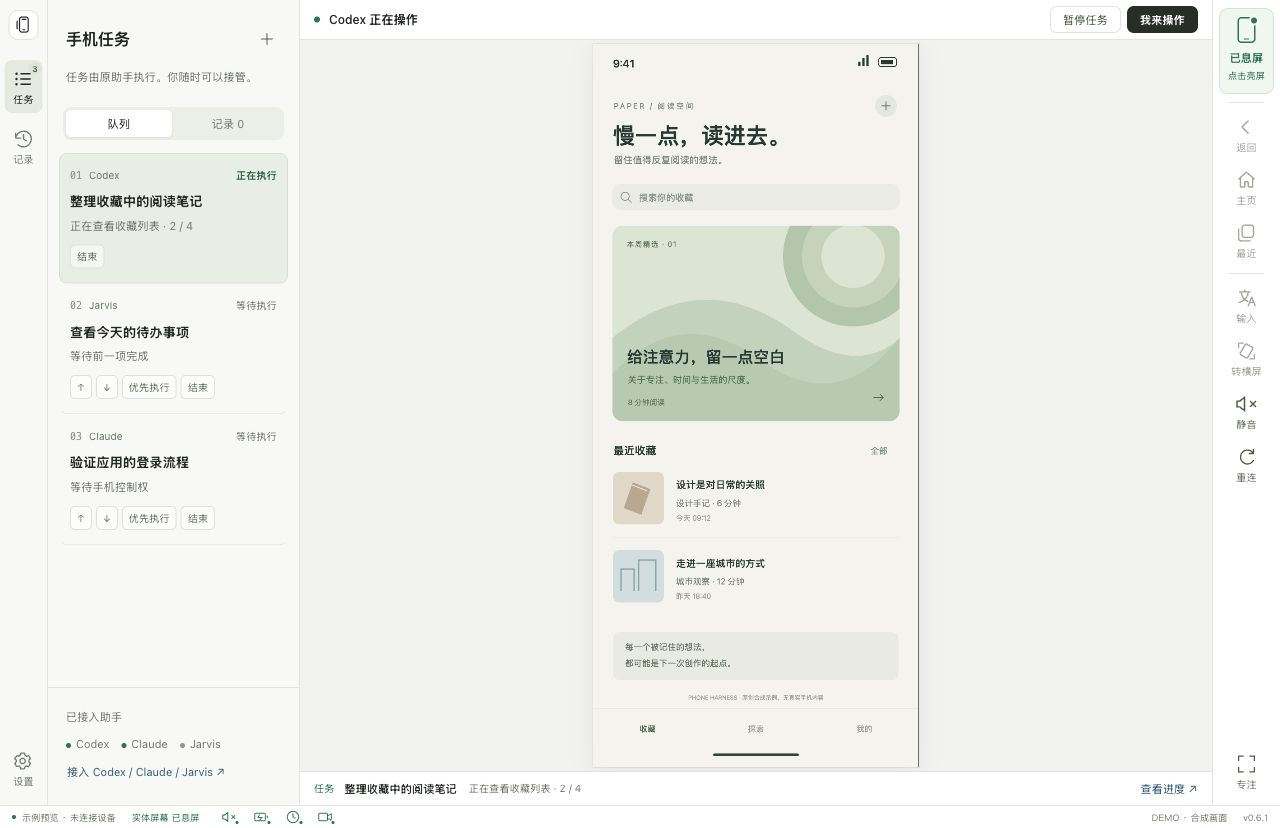
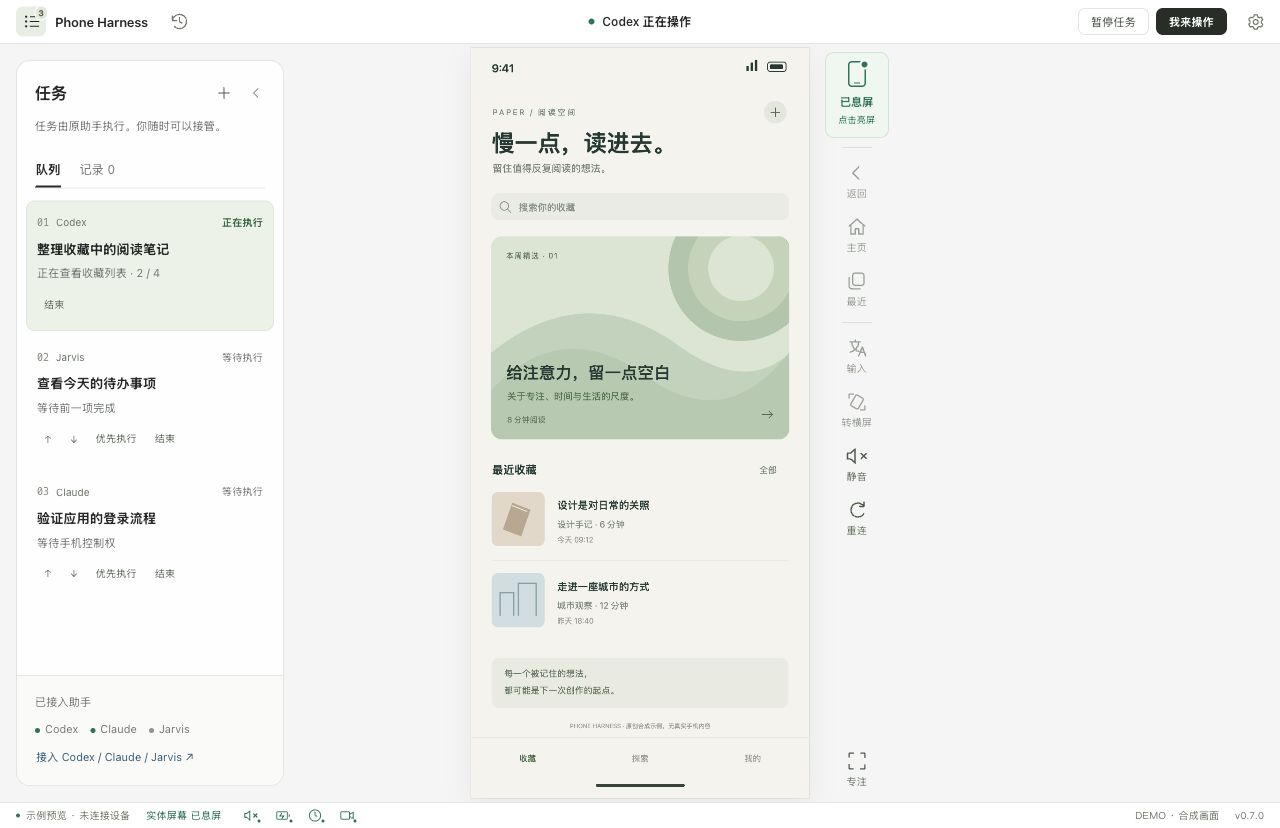
Center the phone independently of task and tool panels

diff --git a/src/phone_harness/web/style.css b/src/phone_harness/web/style.css
@@ -1,8 +1,8 @@
-/* Phone Harness · Light workspace. Original UI; no third-party component source. */
+/* Phone Harness · Centered workspace. Original UI; no third-party component source. */
 :root {
  color-scheme:light;
- --canvas:#f2f3f1; --chrome:#fff; --panel:#f8f9f7;
- --line:#e2e5df; --ink:#242824; --muted:#72776f;
+ --canvas:#f4f5f4; --chrome:#fff; --panel:#f8f9f8;
+ --line:#e3e6e2; --ink:#252825; --muted:#747974;
  --accent:#385c79; --primary:#282d28; --amber:#936218; --green:#31735a;
  --hover:#e9ece6; --radius:10px;
  font:13px -apple-system,BlinkMacSystemFont,'Segoe UI',sans-serif;
@@ -23,31 +23,36 @@ button.subtle:hover{background:var(--panel);border-color:#c9cec5}
 button.icon{height:30px;width:30px;font-size:22px;color:var(--muted);border-radius:50%}
 .ui-icon{width:21px;height:21px;display:block;fill:none;stroke:currentColor;stroke-width:1.55;stroke-linecap:round;stroke-linejoin:round}
 .spacer{flex:1}
-main{display:flex;flex:1;min-height:0}
-.left-rail{width:48px;flex:none;display:flex;flex-direction:column;align-items:center;gap:7px;padding:10px 4px;background:var(--panel);border-right:1px solid var(--line)}
-.rail-brand{display:grid;place-items:center;width:30px;height:30px;color:var(--ink);border:1px solid #dfe3da;border-radius:9px;background:#fff;margin:0 0 13px}
-.rail-brand .ui-icon{width:19px;height:19px}
-.rail-button{width:38px;min-height:51px;position:relative;padding:5px 0;color:#777e72;border-radius:8px}
-.rail-button>span{display:flex;justify-content:center;height:26px;align-items:center}
-.rail-button small{display:block;font-size:10px;line-height:15px}
-.rail-button[aria-expanded=true]{color:var(--ink);background:#e5e9e0}
-.rail-button b{position:absolute;right:0;top:1px;background:#dde4d7;color:#485241;font-size:8px;min-width:13px;border-radius:7px;padding:1px 3px;line-height:11px}
-.tasks{width:252px;flex-shrink:0;background:var(--panel);border-right:1px solid var(--line);display:flex;flex-direction:column}
+/* The header and video are centered against the whole window, independently of drawers. */
+.app-header{height:44px;flex:none;display:grid;grid-template-columns:1fr auto 1fr;align-items:center;gap:16px;padding:0 16px;background:var(--chrome);border-bottom:1px solid var(--line);z-index:6}
+.header-start{display:flex;gap:9px;align-items:center;min-width:0}
+.app-name{font-size:13px;letter-spacing:-.2px;font-weight:600;white-space:nowrap;margin-right:6px}
+.header-icon{height:30px;width:30px;flex:none;display:grid;place-items:center;position:relative;color:#70796a}
+.header-icon .ui-icon{width:19px;height:19px}
+.header-icon[aria-expanded=true]{background:#e9eee5;color:var(--ink)}
+.header-icon b{position:absolute;right:-3px;top:-2px;min-width:13px;padding:1px 3px;border:1px solid #fff;border-radius:7px;background:#e1e8da;color:#526148;font-size:8px;font-weight:550;line-height:11px}
+.pane-close{display:grid;place-items:center;width:27px;height:30px;color:#7b8275}
+.pane-close .ui-icon{width:17px;height:17px}
 .tasks.collapsed{display:none}
-.pane-head{padding:24px 18px 13px;display:flex;justify-content:space-between;align-items:center}
+.drawer-scrim{position:absolute;z-index:4;inset:0;background:#1f2a202b;border:0;border-radius:0;cursor:default}
+.drawer-scrim:hover,.drawer-scrim:active:not(:disabled){background:#1f2a202b}
+.task-overlay .tasks{background:#fff;box-shadow:10px 0 36px #24301d20}
+main.phone-stage{position:relative;flex:1;min-height:0;background:var(--canvas);isolation:isolate}
+.tasks{position:absolute;z-index:5;left:16px;top:calc(16px + var(--activity-inset,0px));bottom:16px;width:268px;display:flex;flex-direction:column;background:#ffffffeb;border:1px solid var(--line);border-radius:14px;overflow:hidden}
+.pane-head{padding:17px 15px 8px 18px;display:flex;align-items:center;gap:3px}.pane-head>div{flex:1}
 .eyebrow{font-size:11px;letter-spacing:0;color:var(--muted)}
 h1{font-size:16px;margin:0;font-weight:600;letter-spacing:-.3px}
 .add{display:grid;place-items:center;height:30px;width:30px;color:#535b4e;border-radius:7px}
 .add .ui-icon{width:18px;height:18px}
-.queue-hint{padding:0 18px 20px;color:var(--muted);font-size:11px;line-height:1.8}
-.task-tabs{display:flex;gap:3px;padding:3px;margin:0 15px 13px;background:#eceee8;border-radius:8px}
-.task-tabs button{flex:1;padding:5px 2px;color:var(--muted);font-size:11px;border-radius:5px}
-.task-tabs button.selected{color:var(--ink);background:#fff;box-shadow:0 1px 3px #26311d12}
-.task-list{flex:1;overflow:auto;padding:0 11px 14px;scrollbar-width:thin}
+.queue-hint{padding:0 18px 16px;color:var(--muted);font-size:11px;line-height:1.8}
+.task-tabs{display:flex;gap:17px;margin:0 18px 8px;border-bottom:1px solid var(--line)}
+.task-tabs button{padding:8px 0;color:var(--muted);font-size:12px;border-radius:0;border-bottom:2px solid transparent}
+.task-tabs button.selected{color:var(--ink);border-bottom-color:var(--ink);font-weight:550}
+.task-list{flex:1;min-height:0;overflow:auto;padding:4px 9px 12px;scrollbar-width:thin}
 .queue-empty{margin:26px 10px;color:var(--muted);line-height:1.9;font-size:12px}
-.task{border:1px solid transparent;border-bottom-color:#e8ebe4;padding:14px 10px;cursor:pointer;border-radius:8px;transition:background .14s}
+.task{border:1px solid transparent;padding:14px 10px;cursor:pointer;border-radius:9px;transition:background .14s;margin-bottom:4px}
 .task:hover{background:#eef0eb}
-.task.running{border-color:#dae1d4;background:#e9eee4}
+.task.running{border-color:#dfe6dc;background:#edf2e9}
 .task-top{display:flex;align-items:center;gap:7px;margin-bottom:8px}
 .task-index{font:10px 'SFMono-Regular',monospace;color:#868c80}
 .task-agent{font-size:10px;color:#687360}
@@ -56,24 +61,23 @@ h1{font-size:16px;margin:0;font-weight:600;letter-spacing:-.3px}
 .task-title{font-size:13px;line-height:1.7;font-weight:550;overflow-wrap:anywhere}
 .task-action{font-size:11px;line-height:1.6;color:var(--muted);margin-top:5px;display:-webkit-box;-webkit-line-clamp:2;-webkit-box-orient:vertical;overflow:hidden}
 .task-controls{display:flex;flex-wrap:wrap;gap:4px;margin-top:10px}
-.task-controls button{padding:4px 6px;background:#ffffff80;border-color:#dde3d7;font-size:10px;color:#697360;border-radius:5px}
-.task-controls button:hover{color:var(--ink);background:#fff;border-color:#bdc7b3}
+.task-controls button{padding:4px 6px;font-size:10px;color:#626c5d;border-radius:5px}
+.task-controls button:hover{color:var(--ink);background:#e3e9de}
 .task.done .task-title,.task.cancelled .task-title{color:var(--muted)}
-.agent-foot{border-top:1px solid var(--line);padding:16px 18px 15px;line-height:1.8}
+.agent-foot{border-top:1px solid var(--line);padding:13px 18px 10px;line-height:1.8;background:#fafbf9}
 .agent-foot #agents{font-size:11px;margin-top:7px;color:var(--muted)}
 .agent-pill{display:inline-block;margin-right:12px}
 .agent-pill i{display:inline-block;width:5px;height:5px;background:#91958d;border-radius:50%;margin-right:5px}
 .agent-pill.online i{background:var(--green)}
 .text-button{font-size:11px;color:var(--accent);padding:7px 0;text-align:left}
-.workspace{flex:1;min-width:0;display:flex;flex-direction:column}
-.ownership{height:40px;min-height:40px;display:flex;flex:none;align-items:center;gap:8px;justify-content:space-between;padding:4px 14px;background:var(--chrome);border-bottom:1px solid var(--line)}
-.owner-info{display:flex;gap:9px;align-items:center;min-width:0;overflow:hidden}
+.workspace{position:absolute;inset:0;display:flex;flex-direction:column;min-width:0}
+.owner-info{display:flex;gap:8px;align-items:center;min-width:0;max-width:300px;overflow:hidden}
 .owner-dot{height:6px;width:6px;flex:none;background:#8e9587;border-radius:50%}
 .owner-dot.human{background:var(--amber)}
 .owner-dot.agent{background:var(--green)}
 .owner-info strong{font-weight:550;font-size:12px;display:block;white-space:nowrap;overflow:hidden;text-overflow:ellipsis}
 .owner-info span:not(.owner-dot){display:none}
-.owner-actions{display:flex;gap:6px;flex:none;margin-left:auto}
+.owner-actions{display:flex;gap:7px;align-items:center;justify-content:flex-end;min-width:0}
 .owner-actions button{padding:5px 12px;font-size:11px;border-radius:7px}
 .viewport{flex:1;min-height:0;position:relative;display:flex;align-items:center;justify-content:center;padding:4px;overflow:hidden;background:var(--canvas)}
 #screen{display:block;flex:none;max-width:100%;max-height:100%;object-fit:fill;touch-action:none;background:#000;box-shadow:0 0 0 1px #24282412,0 6px 28px #24282412;cursor:default}
@@ -86,18 +90,13 @@ h1{font-size:16px;margin:0;font-weight:600;letter-spacing:-.3px}
 .empty-screen p{font-size:12px;margin:8px 0}
 .empty-screen small{font-size:11px;color:var(--muted)}
 .stage-label{position:absolute;bottom:20px;background:#fffffff2;border:1px solid var(--line);border-radius:18px;padding:8px 14px;font-size:11px;color:#66705c;box-shadow:0 3px 12px #26331f0a}
-.current-task{min-height:34px;height:34px;display:flex;gap:10px;align-items:center;padding:4px 14px;border-top:1px solid var(--line);flex:none;background:var(--chrome)}
-.current-task>div{min-width:0;flex:1;display:flex;align-items:center;gap:12px}
-.current-task strong{display:block;font-size:11px;font-weight:500;max-width:50%;overflow:hidden;text-overflow:ellipsis;white-space:nowrap}
-.current-task div span{display:block;font-size:10px;color:var(--muted);overflow:hidden;text-overflow:ellipsis;white-space:nowrap}
-.current-task .eyebrow{font-size:10px;color:var(--green)}
-.toolbar{width:68px;flex:none;display:flex;flex-direction:column;align-items:stretch;align-self:stretch;padding:8px 6px;gap:3px;overflow-y:auto;scrollbar-width:none;border-left:1px solid var(--line);background:var(--chrome)}
+.toolbar{position:absolute;z-index:2;left:calc(50% + 180px);top:calc(8px + var(--activity-inset,0px));bottom:8px;width:64px;display:flex;flex-direction:column;align-items:stretch;padding:0;gap:4px;overflow-y:auto;scrollbar-width:none}
 .toolbar button{min-height:46px;flex-shrink:0;padding:4px 0;color:#50594a;border-radius:8px}
 .toolbar button>span{display:flex;height:24px;align-items:center;justify-content:center}
 .toolbar small{display:block;font-size:10px;line-height:16px;color:#727b6b}
 .toolbar button:disabled small{color:inherit}
-.toolbar button:hover:not(:disabled),.toolbar button[aria-pressed=true]{background:#edf0e8;color:var(--ink)}
-.toolbar .divider{height:1px;background:var(--line);margin:4px 10px;flex:none}
+.toolbar button:not(.panel-power):hover:not(:disabled),.toolbar #focus[aria-pressed=true]{background:#fff;color:var(--ink);border-color:#dfe4da}
+.toolbar .divider{height:1px;background:#dce1d7;margin:4px 17px;flex:none}
 .toolbar .panel-power{min-height:86px;border:1px solid #e2e6dc;border-radius:9px;display:flex;align-items:center;flex-direction:column;gap:3px;margin-bottom:1px;padding:8px 2px;color:var(--muted);background:var(--panel)}
 .panel-power strong{font-size:11px;font-weight:600;line-height:18px}
 .toolbar .panel-power small{font-size:9px;color:inherit;line-height:12px}
@@ -108,7 +107,7 @@ h1{font-size:16px;margin:0;font-weight:600;letter-spacing:-.3px}
 .toolbar .panel-power.on .panel-glyph{background:#f9e1aa}
 .toolbar .panel-power.off{color:var(--green);border-color:#d4e5d8;background:#f0f7f0}
 .toolbar .panel-power.pending{border-style:dashed}
-.statusbar{height:23px;flex:none;display:flex;align-items:center;gap:16px;padding:0 12px;background:var(--chrome);border-top:1px solid var(--line);font:9px -apple-system,sans-serif;color:#737b6d;white-space:nowrap}
+.statusbar{height:26px;flex:none;display:flex;align-items:center;gap:16px;padding:0 16px;background:var(--chrome);border-top:1px solid var(--line);font:10px -apple-system,sans-serif;color:#737b6d;white-space:nowrap}
 .statusbar>span{display:flex;align-items:center;gap:6px}
 .statusbar i{height:4px;width:4px;border-radius:50%;background:#93998c}
 .statusbar i.online{background:var(--green)}
@@ -118,7 +117,7 @@ h1{font-size:16px;margin:0;font-weight:600;letter-spacing:-.3px}
 .health-icon{position:relative;width:27px;height:22px;display:flex;align-items:center;justify-content:center;padding:2px;border-radius:5px}
 .health-icon i{position:absolute;width:3px;height:3px;right:3px;bottom:3px;background:currentColor}
 .good{color:var(--green)}.warning{color:var(--amber)}.alert{color:#ad4a3c}.unknown{color:var(--muted)}
-.activity-banner{min-height:26px;flex:none;text-align:left;padding:4px 14px;background:#fff2ed;color:#9b4734;border-radius:0;border-bottom:1px solid #edd4c9;font-size:11px;line-height:18px;white-space:nowrap;overflow:hidden;text-overflow:ellipsis}
+.activity-banner{min-height:26px;flex:none;text-align:center;padding:4px 14px;background:#fff2ed;color:#9b4734;border-radius:0;border-bottom:1px solid #edd4c9;font-size:11px;line-height:18px;white-space:nowrap;overflow:hidden;text-overflow:ellipsis}
 .activity-banner:hover{background:#fce8de}
 #toast{position:fixed;bottom:45px;left:50%;transform:translateX(-50%);background:#fffffff5;color:var(--ink);padding:12px 20px;border:1px solid var(--line);border-radius:12px;max-width:min(600px,90vw);font-size:12px;line-height:1.6;z-index:10;box-shadow:0 8px 32px #26331f18}
 dialog{border:1px solid #dde2d7;border-radius:16px;background:var(--chrome);color:var(--ink);padding:26px;width:min(520px,92vw);max-height:85vh;box-shadow:0 24px 80px #26331f28,0 2px 12px #26331f0a;scrollbar-width:thin}
@@ -157,9 +156,10 @@ input:focus,textarea:focus,select:focus{outline:2px solid #7893a9;outline-offset
 .action-caption{position:absolute;top:12px;left:50%;transform:translateX(-50%);z-index:3;pointer-events:none;padding:9px 15px;border:1px solid #c8d3e3;border-radius:24px;background:#fffffff2;color:#405d83;box-shadow:0 4px 20px #26331f18;font:500 12px -apple-system,BlinkMacSystemFont,'Segoe UI',sans-serif;max-width:calc(100% - 24px);white-space:nowrap;overflow:hidden;text-overflow:ellipsis}
 .action-caption.human{border-color:#e7d4ad;color:#8f601a}.action-caption.uncertain{border-color:#dcb3a7;color:#a04436}
 [hidden]{display:none!important}
-body.focus .tasks,body.focus .current-task{display:none}
-@media(max-width:700px){.tasks{position:absolute;left:48px;top:0;bottom:23px;z-index:5;width:252px;box-shadow:12px 0 35px #26331f18}.ownership{padding:4px 10px}.statusbar{gap:10px}.current-task{padding:4px 10px}}
-@media(max-width:600px){.left-rail{width:44px;padding-inline:3px}.tasks{left:44px}.toolbar{width:56px;padding:5px 2px}.ownership{padding:4px 8px}.owner-info{max-width:50%}.owner-actions button{padding:5px 8px;font-size:10px}.owner-info strong{font-size:10px}.statusbar{font-size:8px;gap:6px;padding:0 8px}.health-icons{gap:1px}#videoStatus,.statusbar>span:last-child{display:none}.current-task div span{display:none}.current-task strong{max-width:100%}.current-task .eyebrow{display:none}.health-row{grid-template-columns:100px 1fr;gap:10px}#panelStatus{max-width:90px;overflow:hidden}.empty-screen p{max-width:230px;margin:8px auto}}
-@media(max-height:650px){.toolbar{gap:1px}.toolbar button{min-height:38px;padding:2px 0}.toolbar button>span{height:22px}.toolbar .panel-power{min-height:74px;padding:6px 2px}.toolbar .panel-glyph{height:23px}.toolbar .divider{margin:2px 8px}.toolbar small{line-height:13px}}
 @media(prefers-reduced-motion:reduce){*,*:before,*:after{transition:none!important;animation:none!important}dialog::backdrop{backdrop-filter:none}}
-@media(prefers-contrast:more){:root{--line:#929c88;--muted:#4c5842}.toolbar,.tasks,.ownership{background:#fff}button{border-color:#8b9780}}
+@media(prefers-contrast:more){:root{--line:#929c88;--muted:#4c5842}.tasks,.app-header{background:#fff}button{border-color:#8b9780}}
+
+body.focus .tasks,body.focus .statusbar,body.focus .drawer-scrim{display:none}
+@media(max-width:700px){.app-header{gap:8px;padding:0 10px}.app-name{display:none}.tasks{left:10px;top:calc(10px + var(--activity-inset,0px));bottom:10px}.owner-info{max-width:200px}.owner-actions button{padding:5px 9px}.statusbar{gap:9px;padding:0 10px}}
+@media(max-width:600px){.app-header{grid-template-columns:30px minmax(0,1fr) auto;gap:8px}#railHistory{display:none}.owner-info strong{font-size:11px}.owner-actions{gap:4px}.owner-actions button{font-size:10px;padding:5px 7px}.owner-actions .header-icon{padding:0;width:26px}.toolbar{width:44px;top:calc(6px + var(--activity-inset,0px));bottom:6px}.toolbar small{font-size:9px}.toolbar .panel-power{min-height:80px;border-radius:8px}.toolbar .panel-power strong{font-size:10px}.toolbar .panel-power small{font-size:8px}#pause{font-size:0;width:26px;padding:0;height:27px}#pause:before{content:'Ⅱ';font-size:15px}.statusbar{font-size:8px;gap:6px;padding:0 8px}.health-icons{gap:1px}#videoStatus,.statusbar>span:last-child{display:none}.health-row{grid-template-columns:100px 1fr;gap:10px}#panelStatus{max-width:90px;overflow:hidden}.empty-screen p{max-width:230px;margin:8px auto}}
+@media(max-height:650px){.toolbar{gap:1px}.toolbar button{min-height:37px;padding:2px 0}.toolbar button>span{height:21px}.toolbar .panel-power{min-height:72px;padding:5px 2px}.toolbar .panel-glyph{height:22px}.toolbar .divider{margin:2px 16px}.toolbar small{line-height:13px}}

diff --git a/src/phone_harness/web/index.html b/src/phone_harness/web/index.html
@@ -1,32 +1,29 @@
 <!doctype html>
 <html lang="zh-CN"><head><meta charset="utf-8"><meta name="viewport" content="width=device-width,initial-scale=1"><meta name="color-scheme" content="light"><title>Phone Harness · 手机控制台</title><link rel="stylesheet" href="/static/style.css"></head>
 <body>
-<main>
- <nav class="left-rail" aria-label="控制台工具">
-  <span class="rail-brand" title="Phone Harness" aria-label="Phone Harness"><svg class="ui-icon" viewBox="0 0 24 24" aria-hidden="true"><rect x="7" y="2" width="11" height="19" rx="3"/><path d="M10 5h5M11 18h3M4 7v10"/></svg></span>
-  <button id="toggleTasks" class="rail-button" title="展开任务队列" aria-label="展开任务队列" aria-expanded="false"><span><svg class="ui-icon" viewBox="0 0 24 24" aria-hidden="true"><path d="M9 6h11M9 12h11M9 18h11"/><circle cx="4" cy="6" r=".6"/><circle cx="4" cy="12" r=".6"/><circle cx="4" cy="18" r=".6"/></svg></span><small>任务</small><b id="queueCount" hidden></b></button>
-  <button id="railHistory" class="rail-button" title="查看任务记录" aria-label="查看任务记录"><span><svg class="ui-icon" viewBox="0 0 24 24" aria-hidden="true"><path d="M3 11a9 9 0 1 1 2.6 7.4M3 5v6h6M12 7v5l3 2"/></svg></span><small>记录</small></button>
-  <div class="spacer"></div>
-  <button id="settingsOpen" class="rail-button" title="会话设置" aria-label="会话设置"><span><svg class="ui-icon" viewBox="0 0 24 24" aria-hidden="true"><path d="m9 3-.6 2.4-2 1.2-2.3-.7-2 3.4 1.7 1.7v2L2.1 15l2 3.4 2.3-.7 2 1.2L9 21h4l.6-2.1 2-1.2 2.3.7 2-3.4-1.7-2v-2l1.7-1.7-2-3.4-2.3.7-2-1.2L13 3Z"/><circle cx="11" cy="12" r="3"/></svg></span><small>设置</small></button>
- </nav>
- <aside id="taskPane" class="tasks collapsed">
-  <div class="pane-head"><div><h1>手机任务</h1></div><button id="addOpen" class="add" title="添加手机任务" aria-label="添加手机任务"><svg class="ui-icon" viewBox="0 0 24 24" aria-hidden="true"><path d="M12 5v14M5 12h14"/></svg></button></div>
+<header class="app-header">
+ <div class="header-start"><button id="toggleTasks" class="header-icon" title="展开任务队列" aria-label="展开任务队列" aria-expanded="false"><span><svg class="ui-icon" viewBox="0 0 24 24" aria-hidden="true"><path d="M9 6h11M9 12h11M9 18h11"/><circle cx="4" cy="6" r=".6"/><circle cx="4" cy="12" r=".6"/><circle cx="4" cy="18" r=".6"/></svg></span><b id="queueCount" hidden></b></button><span class="app-name">Phone Harness</span><button id="railHistory" class="header-icon" title="查看任务记录" aria-label="查看任务记录"><span><svg class="ui-icon" viewBox="0 0 24 24" aria-hidden="true"><path d="M3 11a9 9 0 1 1 2.6 7.4M3 5v6h6M12 7v5l3 2"/></svg></span></button></div>
+ <div class="owner-info"><span id="ownerDot" class="owner-dot"></span><div><strong id="ownerTitle">会话未开始</strong><span id="ownerDescription">连接 USB 手机，开始本地投屏</span></div></div>
+ <div class="owner-actions"><button id="pause" class="subtle" title="暂停全部手机任务">暂停任务</button><button id="takeover" class="primary">我来操作</button><button id="release" class="primary">交回助手</button><button id="connect" class="primary">连接手机</button><button id="settingsOpen" class="header-icon" title="会话设置" aria-label="会话设置"><span><svg class="ui-icon" viewBox="0 0 24 24" aria-hidden="true"><path d="m9 3-.6 2.4-2 1.2-2.3-.7-2 3.4 1.7 1.7v2L2.1 15l2 3.4 2.3-.7 2 1.2L9 21h4l.6-2.1 2-1.2 2.3.7 2-3.4-1.7-2v-2l1.7-1.7-2-3.4-2.3.7-2-1.2L13 3Z"/><circle cx="11" cy="12" r="3"/></svg></span></button></div>
+</header>
+<main id="phoneStage" class="phone-stage">
+<section class="workspace">
+  <button id="activityBanner" class="activity-banner" hidden aria-live="polite" title="查看设备使用详情"></button>
+  <div class="viewport" id="viewport">
+   <div id="emptyScreen" class="empty-screen"><div class="outline-phone"><span></span></div><h2>你的手机，在这里。</h2><p>USB 直连 · 实体屏幕可关闭 · 静音状态可核验</p><small>首次使用请解锁手机并允许 USB 调试。</small></div>
+   <canvas id="screen" width="720" height="1600" tabindex="0" aria-label="实时手机画面，可在取得控制权后点击和滑动" hidden></canvas>
+   <canvas id="actionLayer" aria-hidden="true"></canvas><div id="actionCaption" class="action-caption" role="status" aria-live="polite" hidden></div>
+   <div class="stage-label" id="stageLabel" hidden>正在连接视频…</div>
+  </div>
+ </section>
+<button id="drawerScrim" class="drawer-scrim" aria-label="关闭任务面板" hidden></button>
+<aside id="taskPane" class="tasks collapsed" aria-label="手机任务">
+  <div class="pane-head"><div><h1>任务</h1></div><button id="addOpen" class="add" title="添加手机任务" aria-label="添加手机任务"><svg class="ui-icon" viewBox="0 0 24 24" aria-hidden="true"><path d="M12 5v14M5 12h14"/></svg></button><button id="closeTasks" class="pane-close" aria-label="收起任务面板" title="收起任务面板"><svg class="ui-icon" viewBox="0 0 24 24" aria-hidden="true"><path d="m14 6-6 6 6 6"/></svg></button></div>
   <div class="queue-hint">任务由原助手执行。你随时可以接管。</div>
   <div class="task-tabs"><button id="queueTab" class="selected">队列</button><button id="historyTab">记录</button></div><div id="taskList" class="task-list"></div>
   <div class="agent-foot"><span class="eyebrow">已接入助手</span><div id="agents">尚无助手接入</div><button id="integrationOpen" class="text-button">接入 Codex / Claude / Jarvis ↗</button></div>
  </aside>
- <section class="workspace">
-  <div class="ownership"><div class="owner-info"><span id="ownerDot" class="owner-dot"></span><div><strong id="ownerTitle">会话未开始</strong><span id="ownerDescription">连接 USB 手机，开始本地投屏</span></div></div><div class="owner-actions"><button id="pause" class="subtle" title="暂停全部手机任务">暂停任务</button><button id="takeover" class="primary">我来操作</button><button id="release" class="primary">交回助手</button><button id="connect" class="primary">连接手机</button></div></div>
-  <button id="activityBanner" class="activity-banner" hidden aria-live="polite" title="查看设备使用详情"></button>
-  <div class="viewport" id="viewport">
-   <div id="emptyScreen" class="empty-screen"><div class="outline-phone"><span></span></div><h2>你的手机，在这里。</h2><p>USB 直连 · 实体屏幕可关闭 · 静音状态可核验</p><small>首次使用请解锁手机并允许 USB 调试。</small></div>
-   <canvas id="screen" tabindex="0" aria-label="实时手机画面，可在取得控制权后点击和滑动" hidden></canvas>
-   <canvas id="actionLayer" aria-hidden="true"></canvas><div id="actionCaption" class="action-caption" role="status" aria-live="polite" hidden></div>
-   <div class="stage-label" id="stageLabel" hidden>正在连接视频…</div>
-  </div>
-  <footer id="currentTask" class="current-task" hidden><span class="eyebrow">任务</span><div><strong id="currentTitle">没有正在执行的手机任务</strong><span id="currentAction">可手动操作，也可以交给已接入的助手。</span></div><button id="currentDetail" class="text-button" hidden>查看进度 ↗</button></footer>
- </section>
- <nav class="toolbar" aria-label="手机快捷工具">
+<nav id="phoneTools" class="toolbar" aria-label="手机快捷工具">
   <button id="panelPower" class="panel-power unknown" aria-label="实体屏幕待确认，点击息屏" title="读取手机实体面板状态"><span class="panel-glyph"><i></i></span><strong id="panelLabel">待确认</strong><small id="panelAction">实体屏幕</small></button>
   <div class="divider"></div>
   <button data-key="4" title="手机返回" aria-label="手机返回"><span><svg class="ui-icon" viewBox="0 0 24 24" aria-hidden="true"><path d="m14 5-7 7 7 7"/></svg></span><small>返回</small></button>
@@ -40,7 +37,7 @@
   <div class="spacer"></div><button id="focus" aria-pressed="false" title="切换专注视图" aria-label="切换专注视图"><span><svg class="ui-icon" viewBox="0 0 24 24" aria-hidden="true"><path d="M8 3H3v5M16 3h5v5M21 16v5h-5M3 16v5h5"/></svg></span><small>专注</small></button>
  </nav>
 </main>
-<div class="statusbar"><span><i id="usbDot"></i><span id="connection">USB 未连接</span></span><span id="panelStatus">实体屏幕 —</span><div class="health-icons"><button id="audioStatus" class="health-icon unknown" aria-label="静音详情" title="静音详情"><svg viewBox="0 0 24 24" width="15" height="15" fill="none" stroke="currentColor" stroke-width="1.6" aria-hidden="true"><path d="M10 5 5 9H2v6h3l5 4V5ZM16 9l6 6m0-6-6 6"/></svg><i></i></button><button id="batteryStatus" class="health-icon unknown" aria-label="充电与电池详情" title="充电与电池详情"><svg viewBox="0 0 24 24" width="15" height="15" fill="none" stroke="currentColor" stroke-width="1.6" aria-hidden="true"><rect x="2" y="6" width="17" height="12" rx="2"/><path d="M22 10v4M10 8l-3 5h6l-3 4"/></svg><i></i></button><button id="verifiedStatus" class="health-icon unknown" aria-label="最后核验时间" title="最后核验时间"><svg viewBox="0 0 24 24" width="15" height="15" fill="none" stroke="currentColor" stroke-width="1.6" aria-hidden="true"><circle cx="12" cy="12" r="9"/><path d="M12 6v6l4 2"/></svg><i></i></button><button id="privacyStatus" class="health-icon unknown" aria-label="摄像头与麦克风状态" title="摄像头与麦克风状态"><svg viewBox="0 0 24 24" width="15" height="15" fill="none" stroke="currentColor" stroke-width="1.6" aria-hidden="true"><rect x="2" y="6" width="14" height="12" rx="2"/><path d="m16 10 6-3v10l-6-3"/></svg><i></i></button></div><span class="spacer"></span><span id="videoStatus">本机视频流</span><span>v0.6.1</span></div>
+<div class="statusbar"><span><i id="usbDot"></i><span id="connection">USB 未连接</span></span><span id="panelStatus">实体屏幕 —</span><div class="health-icons"><button id="audioStatus" class="health-icon unknown" aria-label="静音详情" title="静音详情"><svg viewBox="0 0 24 24" width="15" height="15" fill="none" stroke="currentColor" stroke-width="1.6" aria-hidden="true"><path d="M10 5 5 9H2v6h3l5 4V5ZM16 9l6 6m0-6-6 6"/></svg><i></i></button><button id="batteryStatus" class="health-icon unknown" aria-label="充电与电池详情" title="充电与电池详情"><svg viewBox="0 0 24 24" width="15" height="15" fill="none" stroke="currentColor" stroke-width="1.6" aria-hidden="true"><rect x="2" y="6" width="17" height="12" rx="2"/><path d="M22 10v4M10 8l-3 5h6l-3 4"/></svg><i></i></button><button id="verifiedStatus" class="health-icon unknown" aria-label="最后核验时间" title="最后核验时间"><svg viewBox="0 0 24 24" width="15" height="15" fill="none" stroke="currentColor" stroke-width="1.6" aria-hidden="true"><circle cx="12" cy="12" r="9"/><path d="M12 6v6l4 2"/></svg><i></i></button><button id="privacyStatus" class="health-icon unknown" aria-label="摄像头与麦克风状态" title="摄像头与麦克风状态"><svg viewBox="0 0 24 24" width="15" height="15" fill="none" stroke="currentColor" stroke-width="1.6" aria-hidden="true"><rect x="2" y="6" width="14" height="12" rx="2"/><path d="m16 10 6-3v10l-6-3"/></svg><i></i></button></div><span class="spacer"></span><span id="videoStatus">本机视频流</span><span>v0.7.0</span></div>
 <dialog id="healthDetail"><div class="dialog-head"><div><h2 id="healthTitle"></h2></div><button data-close class="icon" aria-label="关闭设备详情">×</button></div><div id="healthContent"></div><button id="applyQuiet" class="primary" hidden>恢复基础与通话静音</button><p id="healthNote" class="note"></p></dialog>
 <div id="toast" role="status" hidden></div>
 <dialog id="settings"><div class="dialog-head"><div><h2>会话设置</h2></div><button data-close class="icon" aria-label="关闭设置">×</button></div><div class="settings-row"><div><strong>操作位置提示</strong><p>用圆点、圆环和轨迹标出刚才的点击、长按或滑动。只显示在电脑上；提示输入已发出，是否生效以手机画面为准。输入文字不会显示具体内容。</p></div><input id="showActions" type="checkbox" aria-label="显示操作位置提示" checked></div><div class="settings-row"><div><strong>提示大小</strong><p>手动操作约 0.45 秒、助手约 0.9 秒淡出；连续操作时，上一处提示会快速消退。</p></div><select id="actionSize" aria-label="操作提示大小"><option value="44">标准</option><option value="64" selected>醒目</option><option value="88">更大</option></select></div><div class="settings-row"><div><strong>实体屏幕指示灯</strong><p>右侧按钮切换亮屏／息屏，投屏保持可操作。约每 1.5 秒读取实体面板状态，读数过期会显示待确认。这是系统读回，不是外部摄像头。</p></div><span class="setting-value">连接时息屏</span></div><div class="settings-row"><div><strong>安静模式</strong><p>静音基础音频并关闭已识别的振动设置；空闲时降低并静音通话音频。接通或切换输出仍可能改变状态，详情显示实际音量和输出路径。退出后保留。</p></div><span class="setting-value">默认开启</span></div><div class="settings-row"><div><strong>关闭控制台后暂停</strong><p>最后一个窗口关闭 12 秒后暂停。关闭此选项后，已取得控制权的助手可继续执行。</p></div><input id="closePauses" type="checkbox" aria-label="关闭控制台后暂停" checked></div><div class="settings-row"><div><strong>断线恢复</strong><p>保留任务与进度，最多自动重连三次。恢复后仍暂停，由你交回助手再续接。</p></div></div><p class="note">手机启动连接时可能短暂亮屏。电池温度不是 CPU 温度。设置读回不等于声学测量，也不能证明所有第三方应用均不振动。</p><button id="disconnect" class="danger">结束手机会话</button><h3>最近事件</h3><div id="events" class="events"></div></dialog>

diff --git a/src/phone_harness/web/app.js b/src/phone_harness/web/app.js
@@ -27,13 +27,14 @@ async function control(action, data={}) {
 function show(id){$(id).showModal();}
 document.querySelectorAll('[data-close]').forEach(button=>button.onclick=()=>button.closest('dialog').close());
 document.querySelectorAll('dialog').forEach(dialog=>dialog.addEventListener('click',event=>{if(event.target===dialog){const rect=dialog.getBoundingClientRect();if(event.clientX<rect.left||event.clientX>rect.right||event.clientY<rect.top||event.clientY>rect.bottom)dialog.close();}}));
-function taskPane(open){$('taskPane').classList.toggle('collapsed',!open);$('toggleTasks').setAttribute('aria-expanded',String(open));$('toggleTasks').setAttribute('aria-label',open?'收起任务队列':'展开任务队列');$('toggleTasks').title=open?'收起任务队列':'展开任务队列';}
+function taskPane(open){$('taskPane').classList.toggle('collapsed',!open);$('toggleTasks').setAttribute('aria-expanded',String(open));$('toggleTasks').setAttribute('aria-label',open?'收起任务队列':'展开任务队列');$('toggleTasks').title=open?'收起任务队列':'展开任务队列';fitVideo();}
 $('toggleTasks').onclick=()=>{document.body.classList.remove('focus');$('focus').setAttribute('aria-pressed','false');taskPane($('taskPane').classList.contains('collapsed'));};
+$('closeTasks').onclick=$('drawerScrim').onclick=()=>{taskPane(false);$('toggleTasks').focus();};
 $('railHistory').onclick=()=>{document.body.classList.remove('focus');$('focus').setAttribute('aria-pressed','false');taskPane(true);showHistory=true;renderQueue();};
 $('queueTab').onclick=()=>{showHistory=false;renderQueue();};
 $('historyTab').onclick=()=>{showHistory=true;renderQueue();};
 $('closePauses').onchange=()=>control('close_preference',{enabled:$('closePauses').checked});
-$('focus').onclick=()=>{const focused=document.body.classList.toggle('focus');$('focus').setAttribute('aria-pressed',String(focused));};
+$('focus').onclick=()=>{const focused=document.body.classList.toggle('focus');$('focus').setAttribute('aria-pressed',String(focused));if(focused)taskPane(false);fitVideo();};
 $('settingsOpen').onclick=()=>show('settings');
 $('integrationOpen').onclick=()=>show('integration');
 for (const action of ['connect','takeover','release','pause','reconnect','rotate']) $(action).onclick=()=>control(action);
@@ -133,13 +134,27 @@ function renderHealth(){
  }
  $('healthContent').replaceChildren(...rows);$('healthNote').textContent=note;
 }
-function fitVideo(){const box=$('viewport');const w=canvas.width,h=canvas.height;if(!w||!h)return;const scale=Math.min((box.clientWidth-8)/w,(box.clientHeight-8)/h);canvas.style.width=Math.max(0,w*scale)+'px';canvas.style.height=Math.max(0,h*scale)+'px';}
+function fitVideo(){
+ const box=$('viewport'), w=canvas.width, h=canvas.height;
+ const gutter=innerWidth<=600?62:88;
+ const scale=w&&h?Math.max(0,Math.min((box.clientWidth-gutter*2)/w,(box.clientHeight-8)/h)):0;
+ const width=w*scale;
+ $('phoneStage').style.setProperty('--activity-inset',box.offsetTop+'px');
+ canvas.style.width=width+'px';canvas.style.height=h*scale+'px';
+ $('phoneTools').style.left=`calc(50% + ${width/2+16}px)`;
+ const open=!$('taskPane').classList.contains('collapsed')&&!document.body.classList.contains('focus');
+ const overlay=open&&(box.clientWidth-width)/2<$('taskPane').offsetWidth+32;
+ document.body.classList.toggle('task-overlay',overlay);
+ $('drawerScrim').hidden=!overlay;
+ box.inert=overlay;$('phoneTools').inert=overlay;
+}
+
 new ResizeObserver(fitVideo).observe($('viewport'));
+document.addEventListener('keydown',event=>{if(event.key==='Escape'&&!$('drawerScrim').hidden&&!document.querySelector('dialog[open]')){event.preventDefault();event.stopPropagation();taskPane(false);$('toggleTasks').focus();}},true);
 document.querySelectorAll('[data-key]').forEach(button=>button.onclick=()=>send({type:'key',code:Number(button.dataset.key)}));
 $('textOpen').onclick=()=>{if(hasControl())show('textDialog');};
 $('textForm').onsubmit=event=>{event.preventDefault();if(send({type:'text',text:$('phoneText').value})){$('textDialog').close();$('phoneText').value='';canvas.focus();}};
 function detail(id){const task=state.tasks.find(task=>task.id===id);if(!task)return;detailId=id;$('detailTitle').textContent=task.title;const box=$('detailContent');box.replaceChildren(element('p','task-id',task.agent_name+' · '+labels[task.status]+' · '+task.id));for(const [label,value]of [['任务要求',task.instruction],['已保存进度',task.checkpoint],['当前动作',task.action],['结果',task.result]]){if(value)box.append(element('h3','',label),element('pre','',value));}if(!$('taskDetail').open)show('taskDetail');}
-$('currentDetail').onclick=()=>detail(state.current);
 function renderQueue(){
  const signature=JSON.stringify([state.tasks,state.agents,showHistory]);if(signature===queueSignature)return;queueSignature=signature;
  const box=$('taskList');box.replaceChildren();
@@ -151,7 +166,7 @@ function renderQueue(){
   const row=element('article','task '+task.status);row.tabIndex=0;row.setAttribute('aria-label',task.title+'，'+labels[task.status]);
   const top=element('div','task-top');top.append(element('span','task-index',String(index+1).padStart(2,'0')),element('span','task-agent',task.agent_name),element('span','task-status',labels[task.status]));row.append(top,element('div','task-title',task.title),element('div','task-action',task.action));
   const controls=element('div','task-controls');
-  function button(text,action,args={}){const b=element('button','',text);b.onclick=event=>{event.stopPropagation();control(action,{id:task.id,...args});};controls.append(b);}
+  function button(text,action,args={}){const b=element('button','',text);b.setAttribute('aria-label',text==='↑'?'上移任务':text==='↓'?'下移任务':text);b.onclick=event=>{event.stopPropagation();control(action,{id:task.id,...args});};controls.append(b);}
   if(['queued','paused'].includes(task.status)){button('↑','move',{direction:'up'});button('↓','move',{direction:'down'});button('优先执行','prioritize');}
   if(['queued','paused','running','blocked'].includes(task.status))button('结束','cancel');
   if(task.status==='blocked')button('重新排队','retry');
@@ -174,8 +189,6 @@ function render(){
  for(const button of document.querySelectorAll('[data-key],#textOpen,#rotate'))button.disabled=!hasControl();
  $('quiet').disabled=!connected;
  canvas.classList.toggle('controllable',hasControl());
- $('currentTitle').textContent=current?.title||(head?'下一项：'+head.title:'没有正在执行的手机任务');$('currentAction').textContent=current?.action||(head?head.agent_name+' · '+head.action:'可手动操作，也可以交给已接入的助手。');$('currentDetail').hidden=!current;
- $('currentTask').hidden=!current&&!head;
  const count=state.tasks.filter(t=>['queued','paused','running','blocked'].includes(t.status)).length;$('queueCount').textContent=count;$('queueCount').hidden=!count;
  $('orientationLabel').textContent=state.device.width>state.device.height?'转竖屏':'转横屏';
  renderPanel();

diff --git a/src/phone_harness/desktop.py b/src/phone_harness/desktop.py
@@ -21,7 +21,7 @@ def install_app(state, destination):
     executable.parent.mkdir(parents=True); resources.mkdir(parents=True)
     subprocess.run([compiler,'-O',str(Path(__file__).with_name('Desktop.swift')),'-o',str(executable),'-framework','Cocoa','-framework','WebKit'],check=True,timeout=120)
     info = {'CFBundleName':'Phone Harness','CFBundleDisplayName':'Phone Harness','CFBundleIdentifier':'local.phone-harness.console',
-        'CFBundleExecutable':'PhoneHarness','CFBundlePackageType':'APPL','CFBundleVersion':'0.6.1','CFBundleShortVersionString':'0.6.1',
+        'CFBundleExecutable':'PhoneHarness','CFBundlePackageType':'APPL','CFBundleVersion':'0.7.0','CFBundleShortVersionString':'0.7.0',
         'NSHighResolutionCapable':True,'NSAppTransportSecurity':{'NSAllowsLocalNetworking':True}}
     (staging/'Contents/Info.plist').write_bytes(plistlib.dumps(info))
     (resources/'launch.json').write_text(json.dumps({'python':sys.executable,'state':str(Path(state).resolve())}))

diff --git a/src/phone_harness/__init__.py b/src/phone_harness/__init__.py
@@ -1,1 +1,1 @@
-__version__ = "0.6.1"
+__version__ = "0.7.0"

diff --git a/VALIDATION.md b/VALIDATION.md
@@ -1,4 +1,4 @@
-# Validation scope — 0.6.1
+# Validation scope — 0.7.0
 
 Local acceptance on 2026-10-17 (UTC). This is a prototype build, not a published service or evidence of adoption.
 
@@ -84,6 +84,14 @@ Local acceptance on 2026-10-17 (UTC). This is a prototype build, not a published
 - Installed 0.6.1 and reopened the native app while keeping a second viewer connected. Real 720 × 1600 video continued; the native light title bar, new UI version and settings open/close were visually verified. Physical panel remained Off, ownership stayed human and task IDs/statuses were unchanged. No phone input was sent. All 16 installed runtime files and served JavaScript/CSS matched source.
 - 53 Python, 11 action-feedback JavaScript and six adapter tests passed. JavaScript syntax, wheel build and native app compilation passed. The existing aiohttp test fixture emits a non-failing AppKey warning.
 - This version is installed locally for visual review. The published GitHub release remains v0.6.0; no new release or external-use claim is made here.
+
+## Version 0.7 additions
+
+- Reworked the composition around the full window centerline: independent video stage, optional left task drawer, right tools attached 16 px from the video edge, one ownership header and compact status footer. Removed the redundant current-task footer; task progress and detail remain in the queue. No backend or ownership protocol changes.
+- Synthetic browser checks at 1280 × 828, 850 × 618, 850 × 950 and 390 × 844 covered portrait, landscape, open/closed drawers and focus. At 1280 × 828, the portrait center is exactly x=640 with the drawer open or closed, height 750 px (previously 723); focus reaches 776 px while retaining takeover. Landscape is centered at x=640 with width 1104 px and no toolbar overflow. No horizontal overflow observed.
+- Narrow-window drawers use a scrim and inert video/tools. The browser confirmed both inert attributes, hidden controls in the accessibility tree, and Escape restoration. Synthetic task move-up/down, takeover/release, settings and focus controls worked. Device status retains its semantic color on hover. No browser warning/error observed.
+- Installed 0.7.0 into the existing native macOS app. Real USB video decoded, the phone was visually centered, and opening/closing the drawer correctly hid/restored covered phone controls in the native accessibility tree. Task IDs/statuses stayed unchanged, physical panel read Off and ownership remained human. No phone input or task execution was performed during this visual update.
+- 53 Python, 11 action-overlay JavaScript and six OpenClaw adapter tests passed, as did JavaScript syntax, package build and native app compilation. All 16 installed runtime files and served frontend files matched source. Current release remains v0.6.0; 0.7.0 is local for review.
 
 ## Not established
 

diff --git a/docs/DESIGN.md b/docs/DESIGN.md
@@ -1,12 +1,12 @@
-# Light workspace
+# Centered phone workspace
 
-A white desktop workspace centered on the real phone, with soft neutral sidebars and clear text hierarchy. The task drawer starts closed; tools stay in a narrow, integrated right column. The 40 px handoff bar and 23 px status row preserve the phone picture height.
+A light desktop workspace whose phone stays on the horizontal centerline of the entire window. The full-width stage is independent of the left task drawer. Tools attach to the phone’s right edge with a 16 px gap. A 44 px header holds ownership and takeover; the compact 26 px status row holds device details. The redundant current-task footer is removed, giving the picture more height.
 
 Visual reference: the light desktop screenshot on the official [Codex product page](https://openai.com/codex/), inspected on 2026-10-17. We borrow the restraint of its sidebar, monochrome primary action, simple typography and fine dividers. No OpenAI brand assets, screenshots, fonts or component source are included. Phone Harness icons and CSS are original.
 
-The previous 0.6.0 Graphite design was rejected in local review. This revision intentionally uses light mode, including the native macOS title bar and loading screen. It is not tied to the operating system's dark-mode preference.
+The previous 0.6.0 Graphite design was rejected in local review. Version 0.6.1 changed the palette; 0.7.0 changes the composition. Light mode includes the native macOS title bar and loading screen and is independent of the operating system theme.
 
-Design brief: White control surfaces, a very light neutral phone stage, readable charcoal text and a quiet selected row. Reserve green and amber for meaningful state. Remove ornamental English headings and floating dark docks. Keep the full uncropped phone view, immediate human takeover, honest device readings, visible keyboard focus and reduced-motion support. Status details remain behind compact icons. Showcase only explicitly labeled synthetic data.
+Design brief: White control surfaces, a very light neutral phone stage, readable charcoal text and a quiet selected row. Reserve green and amber for meaningful state. Remove ornamental English headings and floating dark docks. Opening tasks never reflows or shifts the phone. If the drawer cannot fit beside it, use a temporary scrim and make covered video/tools inert; close via the drawer arrow, background or Escape. Focus view hides the task drawer and status row while keeping takeover available. Task rows carry order, progress and results without duplicating them under the phone. Keep the full uncropped phone view, immediate human takeover, honest device readings, visible keyboard focus and reduced-motion support. Status details remain behind compact icons. Showcase only explicitly labeled synthetic data.
 
 ## Tune
 

diff --git a/README.md b/README.md
@@ -6,7 +6,7 @@ A local Android control console shared by humans and their AI assistants.
 
 **The assistant you give the task to remains its executor.** Codex, Claude Code, Jarvis or another MCP client can use the same phone. This project supplies a screen, tools, task queue and ownership protocol. Model execution stays in the original assistant host; the optional OpenClaw adapter can resume that host's original conversation after human control is returned.
 
-Version 0.6.1 is an **MIT-licensed open-source preview** of a local, single-phone prototype. The current implementation uses Unix file locks and is intended for macOS/Linux; Windows is not supported yet. Real-device acceptance is limited to the device and capabilities listed in `VALIDATION.md`.
+Version 0.7.0 is an **MIT-licensed open-source preview** of a local, single-phone prototype. The current implementation uses Unix file locks and is intended for macOS/Linux; Windows is not supported yet. Real-device acceptance is limited to the device and capabilities listed in `VALIDATION.md`.
 
 ![Phone Harness light console — synthetic demonstration](docs/console-demo.png)
 
@@ -138,4 +138,4 @@ The right-hand lamp/button reports the **physical internal display**, separately
 
 The panel monitor reads system metadata approximately every 1.5 seconds, independently of long assistant actions; the UI polls every second. Samples older than five seconds and disconnected sessions show unknown. This is a system readback, not a camera or optical measurement, and flashes shorter than the polling interval may be missed.
 
-The task drawer is collapsed initially. The full phone picture fits the available height/width without cropping; resize the window or use focus view for more room. The rotate button requests native Android portrait/landscape while you own control. Some apps/lock screens enforce an orientation; the console reports that case instead of claiming a successful switch.
+The phone stays centered in the whole window. The task drawer starts collapsed and never pushes the picture sideways; on narrow windows it overlays temporarily, with covered phone input disabled until you close it. Tools follow the picture’s right edge. The full phone picture fits without cropping; focus view gives it more height while keeping takeover visible. The rotate button requests native Android portrait/landscape while you own control. Some apps/lock screens enforce an orientation; the console reports that case instead of claiming a successful switch.

diff --git a/README.zh-CN.md b/README.zh-CN.md
@@ -6,7 +6,9 @@
 
 你给 Codex、Claude Code 或 Jarvis 的任务，仍由那个助手完成。Phone Harness 提供真机画面、操作工具、任务队列和人工接管；你可以随时点「我来操作」，用完再「交回助手」。手机连接时默认息屏和静音，电脑窗口显示实时画面；需要给身边的人看时，也可以主动亮屏。
 
-macOS 有独立软件窗口，不需要浏览器标签页。浏览器入口仍保留给 Linux 或偏好网页的使用者。当前是 0.6.1 测试版：已验一台 Android 真机，尚不支持 Windows，也未证明所有品牌手机兼容。
+macOS 有独立软件窗口，不需要浏览器标签页。浏览器入口仍保留给 Linux 或偏好网页的使用者。当前是 0.7.0 测试版：已验一台 Android 真机，尚不支持 Windows，也未证明所有品牌手机兼容。
+
+手机始终对齐整个窗口的中线，任务面板展开不会把它推偏。左侧看任务与进度，右侧工具跟随画面边缘；窗口不够宽时，任务面板临时覆盖显示并阻止下方手机误触。顶部始终保留接管入口，专注模式可进一步放大画面。
 
 
 ![Phone Harness 新版控制台 · 合成示例](docs/console-demo.png)
